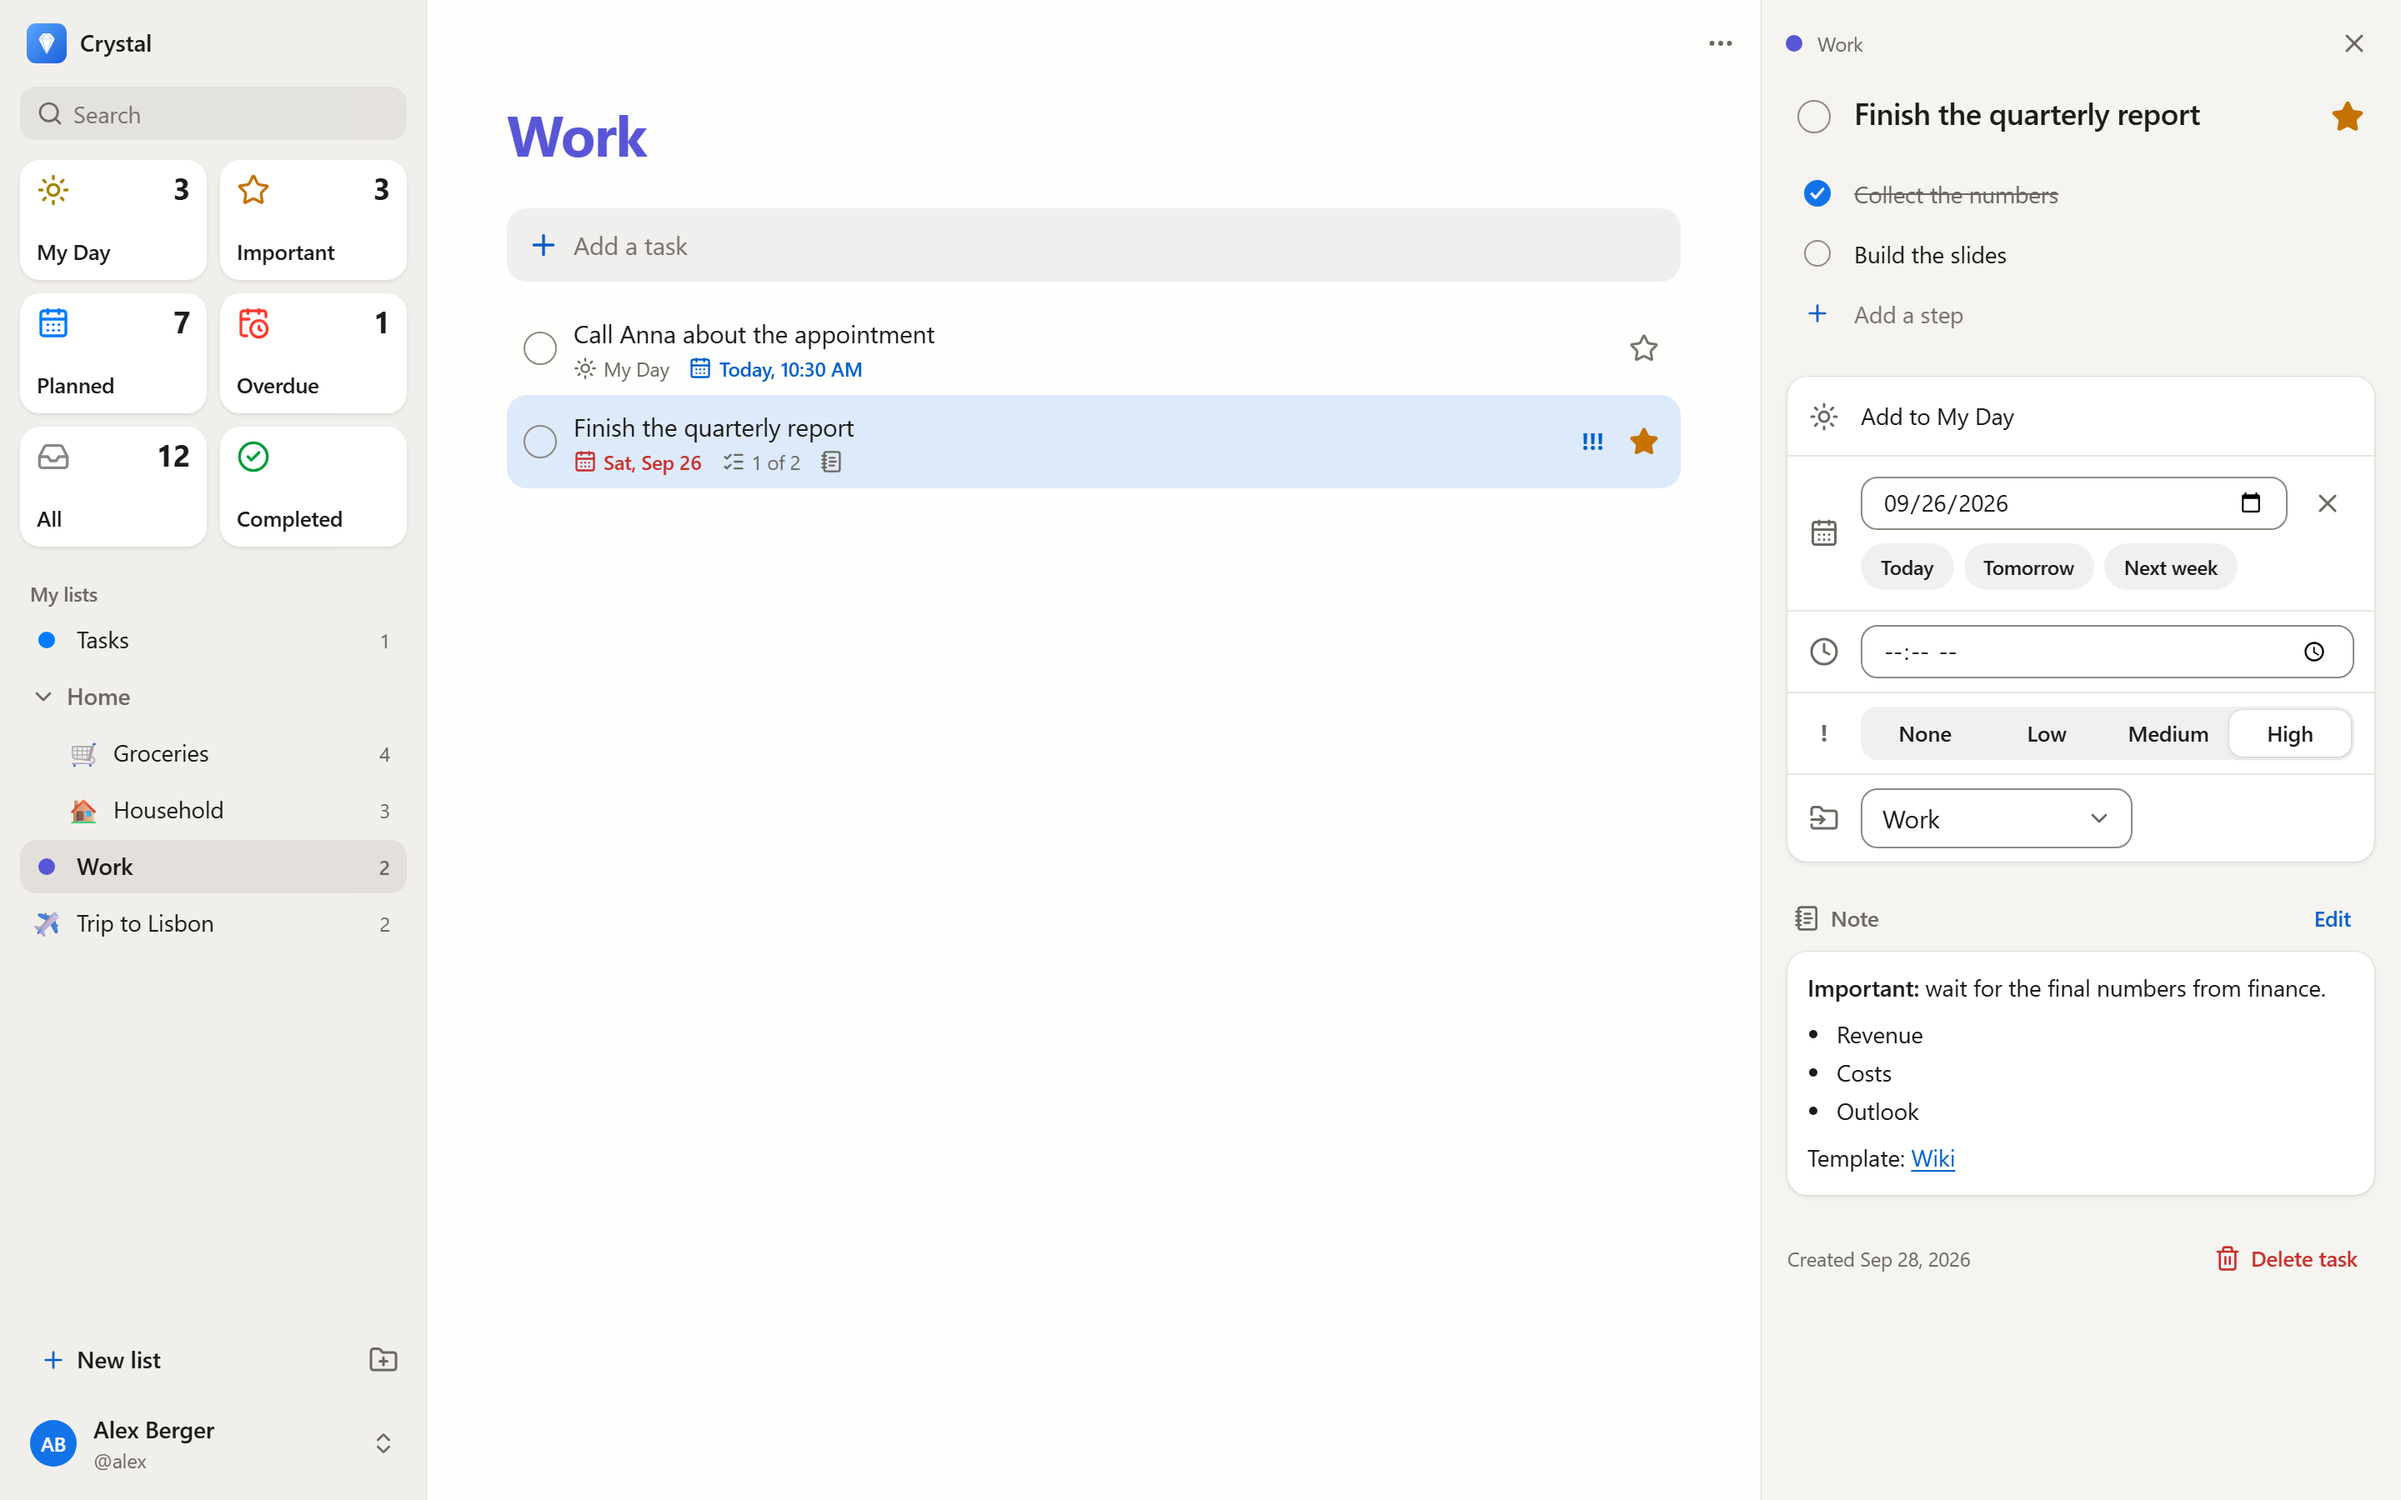
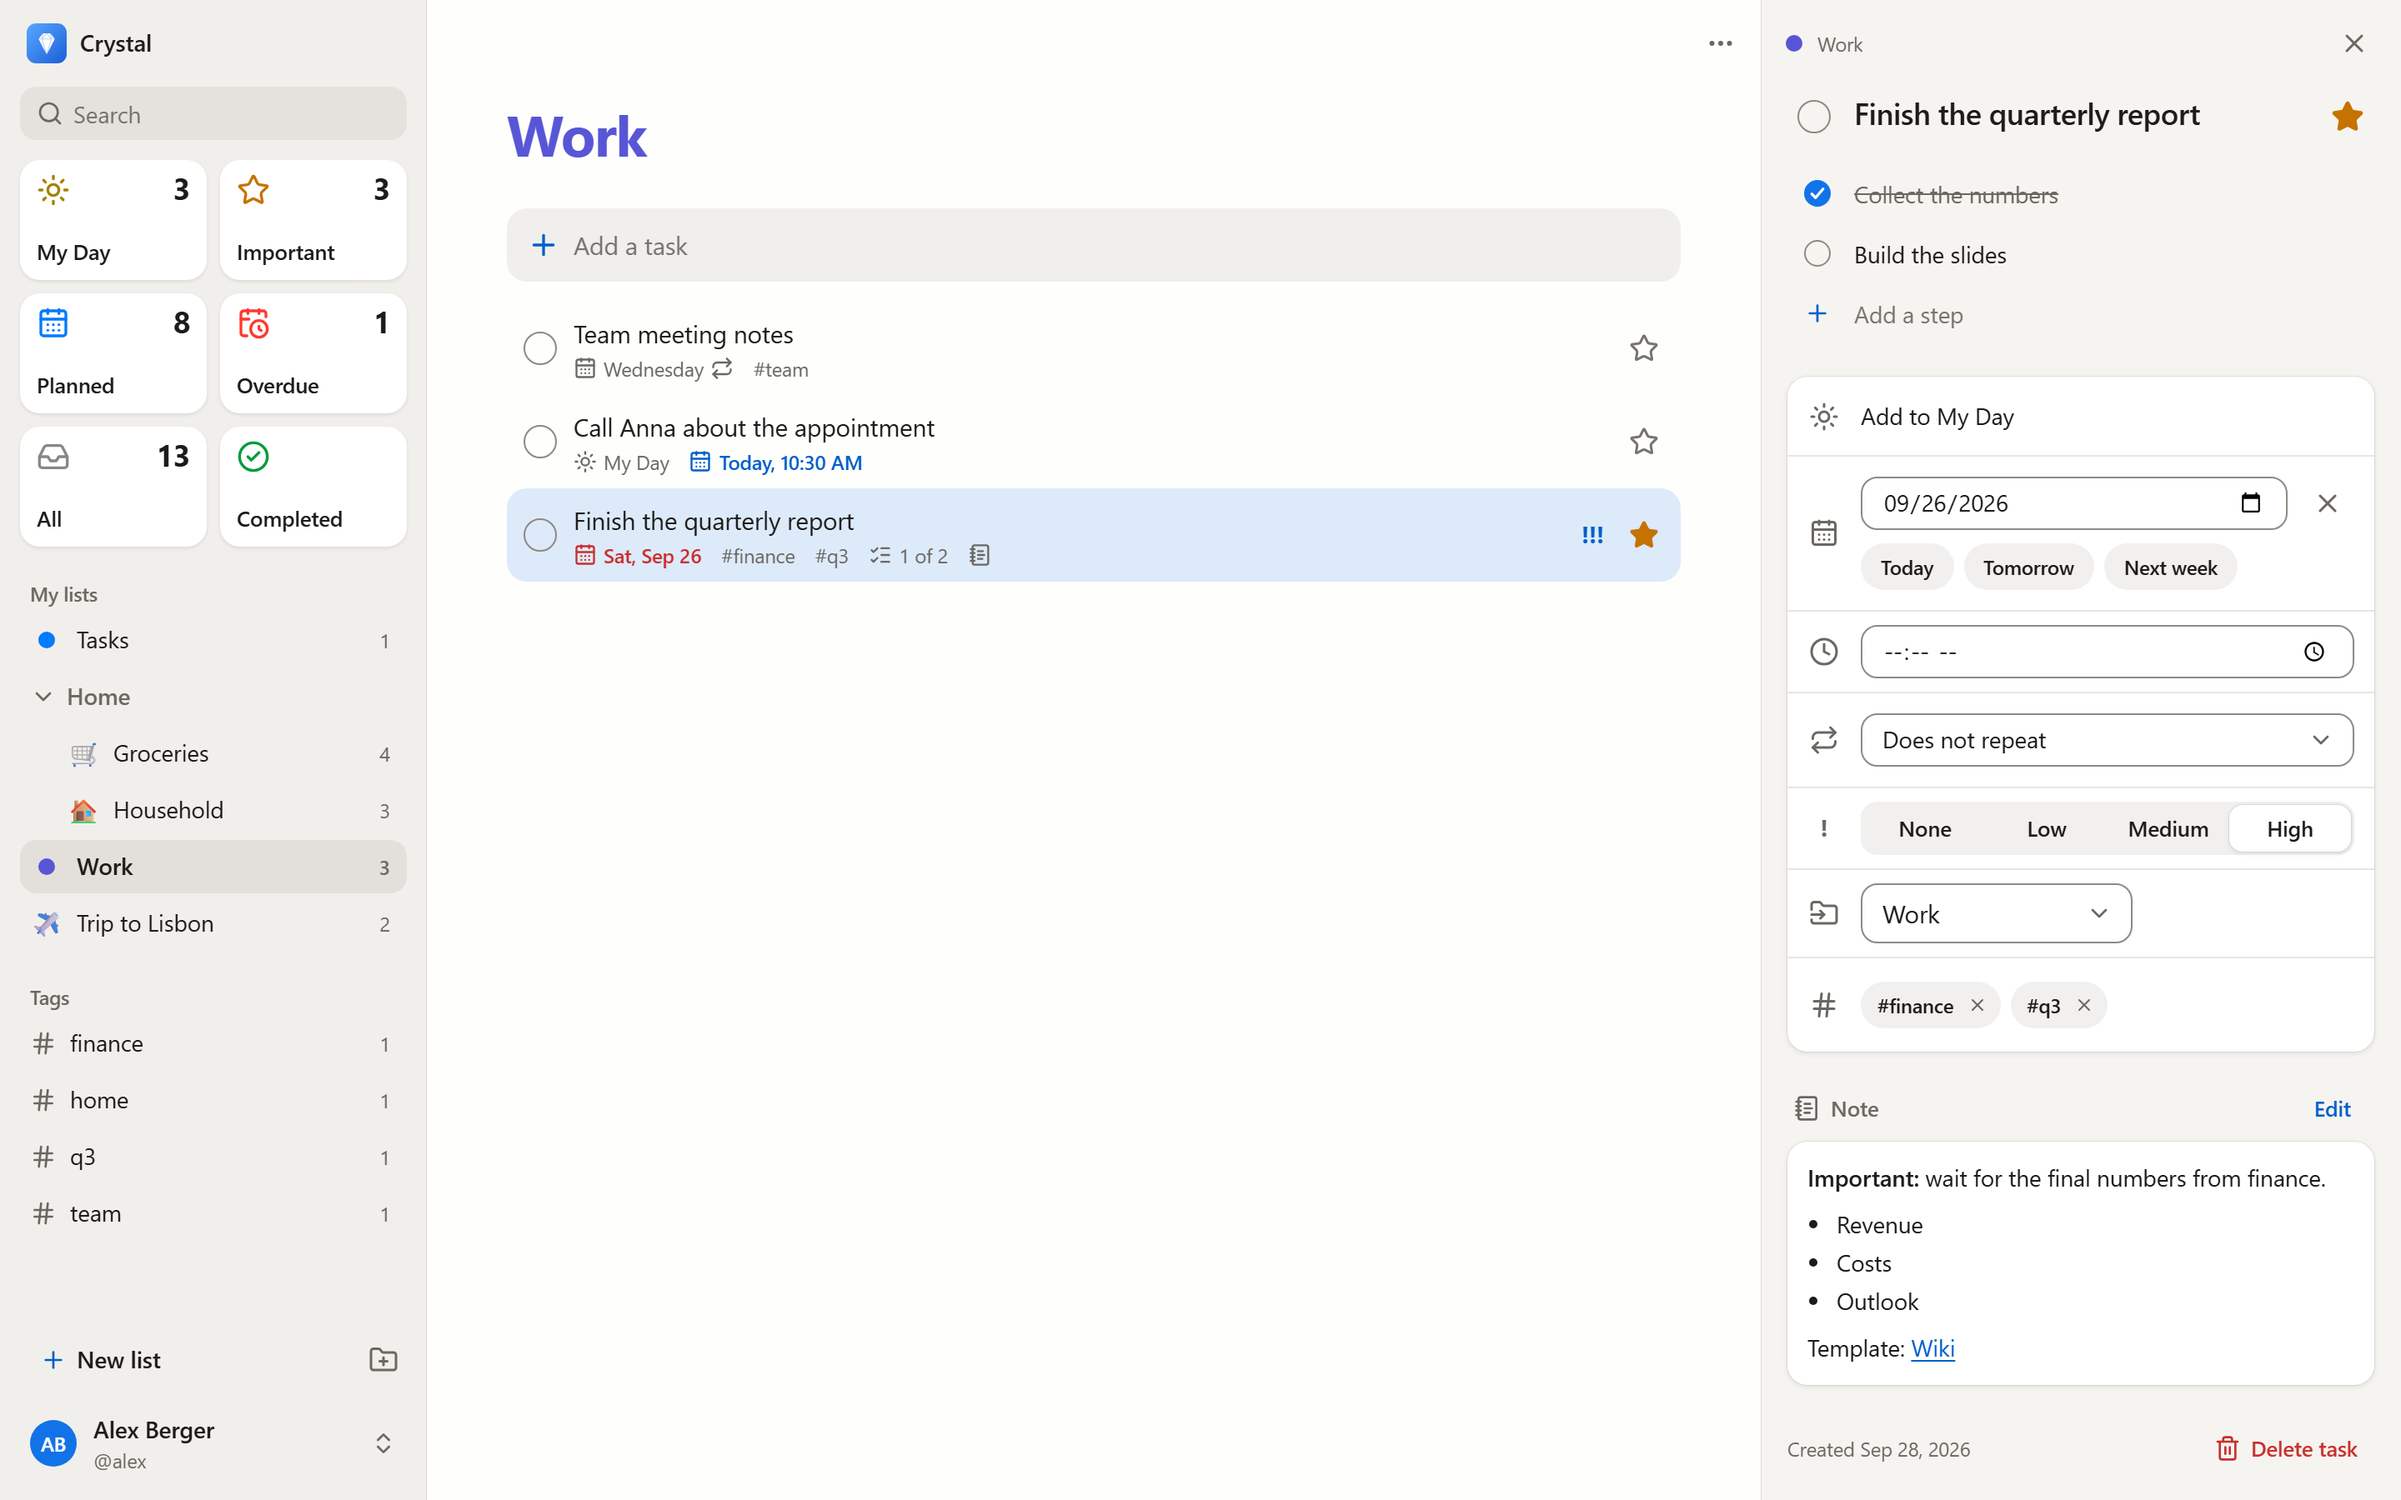
docs: describe quick entry, repeats, tags and shortcuts
Adds a quick-entry guide with everything that is recognized, updates the
README, roadmap, changelog and architecture notes, and refreshes the
screenshots.

diff --git a/docs/quick-entry.md b/docs/quick-entry.md
@@ -1,0 +1,45 @@
+# Quick entry
+
+When you type a task, Crystal recognizes dates, times, repeats and more, and shows them as
+chips below the field. The recognized words are removed from the title. Click the **×** on a
+chip to keep those words as plain text instead.
+
+English and German work side by side, whatever language the app is set to. Recognition can
+be turned off under **Settings → Account → Quick entry**.
+
+| What                | English                                                                            | German                                                                         |
+| ------------------- | ---------------------------------------------------------------------------------- | ------------------------------------------------------------------------------ |
+| Relative dates      | `today`, `tomorrow`, `the day after tomorrow`                                      | `heute`, `morgen`, `übermorgen`                                                |
+| Weekdays            | `Monday`, `next Friday`, `this Sunday`, `on Tuesday`, `by Friday`                  | `Montag`, `nächsten Freitag`, `am Dienstag`, `bis Freitag`                     |
+| Weeks and weekends  | `next week` (Monday), `this weekend`, `next weekend`                               | `nächste Woche`, `am Wochenende`, `nächstes Wochenende`                        |
+| In some time        | `in 3 days`, `in a week`, `in 2 months`                                            | `in 3 Tagen`, `in einer Woche`, `in zwei Monaten`                              |
+| Dates               | `Oct 12`, `October 12th, 2027`, `the 3rd of January`, `on the 15th`, `2027-03-31`  | `12.10.`, `12.10.2027`, `12. Oktober`, `am 15.`                                |
+| Times               | `6pm`, `at 6:30 pm`, `18:30`, `at noon`                                            | `um 18 Uhr`, `18:30`, `18.30 Uhr`, `mittags`                                   |
+| Repeats             | `daily`, `every weekday`, `weekly`, `every other week`, `every 3 months`, `yearly` | `täglich`, `werktags`, `wöchentlich`, `alle 2 Wochen`, `monatlich`, `jährlich` |
+| Repeats on weekdays | `every Tuesday and Friday`, `on Mondays`, `every 2 weeks on Saturday`              | `jeden Dienstag und Freitag`, `montags`, `alle 2 Wochen am Samstag`            |
+| Important           | `!important`                                                                       | `!wichtig`                                                                     |
+| Priority            | `!1` `!2` `!3`, `!!` `!!!`, `!low` `!medium` `!high`                               | `!niedrig` `!mittel` `!hoch`                                                   |
+| Tags                | `#household`                                                                       | `#haushalt`                                                                    |
+| List                | `@Groceries`                                                                       | `@Einkauf`                                                                     |
+
+A few details:
+
+- **Only whole words count.** “Heute-Show”, “Morgenroutine” or “Monday.com” stay text.
+- **A time without a date** means today. **A repeat without a date** starts on its first day
+  from today on, e.g. “every Tuesday” on the next Tuesday.
+- **Dates without a year** that have already passed this year mean next year.
+- **Slashes** are read as month/day in English and day/month in German, and only with a year
+  or a word like “on” or “am” in front – so “1/2 liter milk” stays as it is.
+- **Only the first** date, time, repeat and list count; later ones stay in the title.
+- **`@list`** needs the name of a list you can edit; unknown names stay text.
+
+## Repeating tasks
+
+A repeating task always has a due date. When you complete it, the next one appears right
+away, with the steps unticked and everything else kept. Undo the tick by mistake and the next
+one disappears again – as long as you have not changed it yet.
+
+The next date is counted from the due date: a task due every Tuesday stays on Tuesdays even if
+you complete it on Monday. If you are late, it moves to the next Tuesday from today on, not to
+one that has already passed. For things like “descale the kettle every 30 days”, choose
+**Count from: Completion** in the task details.

diff --git a/docs/architecture.md b/docs/architecture.md
@@ -44,16 +44,16 @@ Tables:
 | `lists`           | Name, color, emoji, owner; one default list per account                                                                                                 |
 | `list_members`    | Who can see a list with which role (`owner`, `editor`, `viewer`), and each person's own group and position for it in the sidebar                        |
 | `list_groups`     | Per-person folders in the sidebar, collapsible                                                                                                          |
-| `tasks`           | Title, notes, due date and time, priority, important flag, position, completion, soft deletion                                                          |
+| `tasks`           | Title, notes, due date and time, priority, important flag, position, repeat rule (JSON), completion, soft deletion                                      |
 | `subtasks`        | Steps of a task, with their own order and completion                                                                                                    |
+| `task_tags`       | Tags of a task, in lower case                                                                                                                           |
 | `my_day`          | Which tasks a person added to My Day, and for which date                                                                                                |
-| `task_search`     | SQLite FTS5 index over titles, notes and steps                                                                                                          |
+| `task_search`     | SQLite FTS5 index over titles, notes, steps and tags                                                                                                    |
 
 Planned additions, each with its own migration when the feature arrives:
 
 | Phase | Tables                                        |
 | ----- | --------------------------------------------- |
-| 3     | `task_tags`                                   |
 | 5     | `push_subscriptions`, `notification_channels` |
 | 6     | `api_tokens`, `calendar_feeds`, `attachments` |
 
@@ -74,6 +74,14 @@ Design decisions for lists and tasks:
   days.
 - **Search** uses an FTS5 index with prefix matching and accent folding (`cafe` finds
   “Café”, `muller` finds “Müller”); the index is updated in the same transaction as the task.
+- **Repeating tasks** are a series of separate tasks. Completing one creates the next
+  occurrence and hands the rule on (`next_task_id` links them), so history stays intact and
+  each series has exactly one open task. Reopening takes the next occurrence back if nobody
+  has touched it yet. Monthly and yearly series remember their first due date
+  (`recurrence_anchor`) to keep their day across short months. The date arithmetic lives in
+  `packages/shared` and is covered by unit tests.
+- **Quick entry** is parsed in the browser (`parseQuickEntry` in `packages/shared`); the API
+  only receives structured fields, so other clients can create tasks without it.
 
 On the client, TanStack Query caches lists, tasks and the smart lists. Changes are applied
 optimistically and rolled back with an error message when the server rejects them; the

diff --git a/README.md b/README.md
@@ -15,9 +15,9 @@
 </p>
 
 > [!NOTE]
-> **Crystal is in early development.** Lists, tasks, My Day and the smart lists are
-> ready to use; natural-language entry, recurring tasks, sharing and reminders follow.
-> See the [roadmap](ROADMAP.md) for what comes next.
+> **Crystal is in early development.** Lists, tasks, repeats, tags and quick entry are
+> ready to use; sharing, reminders and offline use follow. See the [roadmap](ROADMAP.md)
+> for what comes next.
 
 <p align="center">
   <picture>
@@ -55,6 +55,18 @@
 - **Undo** for deleted tasks; completed tasks stay tucked away until you need them.
 - **Details beside the list** on large screens, as a sheet on phones and tablets.
 
+**Fast to use**
+
+- **Quick entry that understands you**, in English and German: type “Take out the trash
+  tomorrow 6pm every Tuesday !important #household” and Crystal sets the date, time, repeat,
+  importance and tag. Recognized parts show as chips you can dismiss.
+  [What is recognized](docs/quick-entry.md)
+- **Repeating tasks** – daily, on chosen weekdays, every n weeks, months or years, counted
+  from the due date or from completion. The next one appears when you tick one off.
+- **Tags** to cut across lists, each with its own view.
+- **Keyboard shortcuts** for everything frequent, and a **command palette** (⌘K / Ctrl+K) to
+  jump to any list, find tasks or add one from anywhere. Press `?` for an overview.
+
 **For the whole household**
 
 - **Accounts for everyone in the household.** The first account becomes the administrator.
@@ -71,10 +83,9 @@
 - **Secure defaults.** Argon2id passwords, HttpOnly session cookies, CSRF protection,
   rate limiting, strict Content Security Policy, a non-root container without a shell.
 
-**Coming next** – natural-language quick entry (“Take out the trash tomorrow 6pm every
-Tuesday !important”), recurring tasks, tags, sharing and real-time sync, reminders (Web
-Push, ntfy, Gotify), offline support, import from Microsoft To Do and Todoist, an iCal
-feed and a REST API. Details in the [roadmap](ROADMAP.md).
+**Coming next** – sharing lists and real-time sync, assigning tasks, reminders (Web Push,
+ntfy, Gotify), offline support, import from Microsoft To Do and Todoist, an iCal feed and
+API tokens. Details in the [roadmap](ROADMAP.md).
 
 ## Quick start
 

diff --git a/ROADMAP.md b/ROADMAP.md
@@ -13,14 +13,11 @@ Lists with colors and emoji, list groups, tasks with steps, due dates, priority 
 Markdown notes, My Day with suggestions, smart lists, drag and drop (mouse, touch,
 keyboard), full-text search, task details as panel or sheet.
 
-## 0.3 – Comfort
+## ✅ 0.3 – Comfort
 
-- Quick entry with natural language in English and German, e.g.
-  `Take out the trash tomorrow 6pm every Tuesday !important #household`, shown as chips
-- Recurring tasks (daily, weekly on chosen days, monthly, yearly, custom; from due date or
-  from completion)
-- Tags and filters
-- Keyboard shortcuts, command palette (Cmd/Ctrl+K), shortcut overview (`?`)
+Quick entry with natural language in English and German shown as chips, repeating tasks
+(from the due date or from completion), tags with their own views, keyboard shortcuts with
+an overview (`?`), command palette (⌘K / Ctrl+K).
 
 ## 0.4 – Together
 
@@ -60,4 +57,6 @@ Ideas that were deliberately postponed:
   root of a domain or subdomain.
 - **A “Recently deleted” view.** Deleted tasks are kept for 30 days, but can only be
   restored right away with “Undo” so far.
+- **Saved filters** that combine conditions (e.g. `#work` and due this week). Tags have
+  their own views, and search finds tags, too.
 - More languages – contributions welcome, see [CONTRIBUTING.md](CONTRIBUTING.md#translations).

diff --git a/CHANGELOG.md b/CHANGELOG.md
@@ -6,6 +6,25 @@ All notable changes to Crystal are documented in this file. The format follows
 
 ## [Unreleased]
 
+Comfort: quick entry, repeats, tags, keyboard.
+
+### Added
+
+- Quick entry understands dates, times, repeats, importance, priority, tags and lists in
+  English and German (“Take out the trash tomorrow 6pm every Tuesday !important
+  #household”) and shows them as chips that can be dismissed; it can be turned off in the
+  account settings. See [docs/quick-entry.md](docs/quick-entry.md).
+- Repeating tasks: daily, weekly (optionally on chosen weekdays), monthly or yearly, every n
+  periods, counted from the due date or from completion. Completing one creates the next
+  occurrence; undoing the tick right away takes it back.
+- Tags, with a view per tag, a section in the sidebar and an editor in the task details.
+  Search finds tags, too.
+- Keyboard shortcuts: `N` new task, `/` search, `G` then a letter to go to a smart list, and
+  on a focused task `↑`/`↓`, `X`, `S`, `M` and `Delete`. `?` shows an overview.
+- Command palette (⌘K / Ctrl+K) to go to lists, tags and smart lists, find tasks, add a
+  task with quick entry and run actions such as switching the appearance.
+- API: `recurrence` and `tags` on tasks, `GET /tags` and `GET /tags/{tag}/tasks`.
+
 ## [0.2.0] - 2026-09-28
 
 Lists and tasks.
